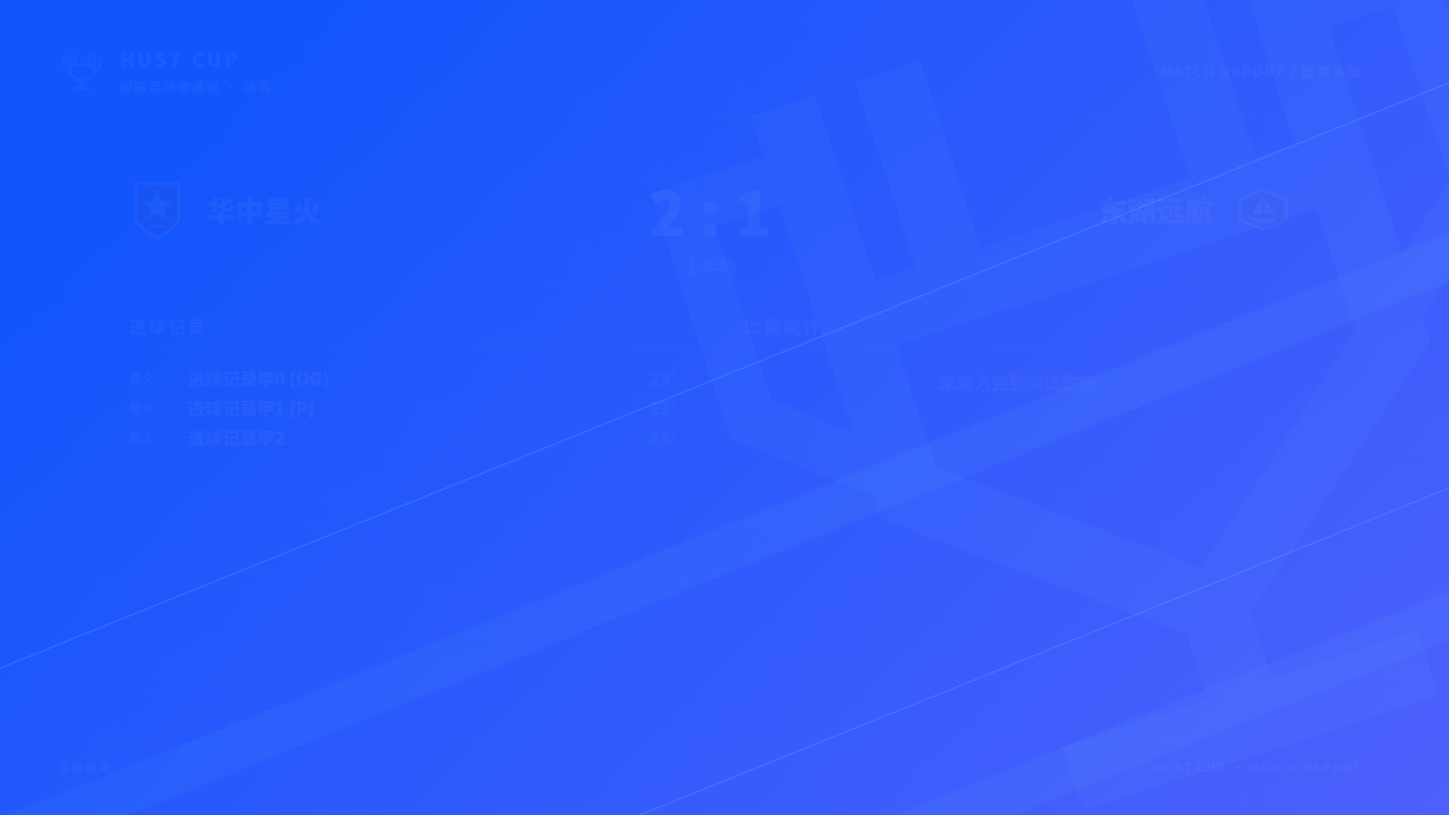
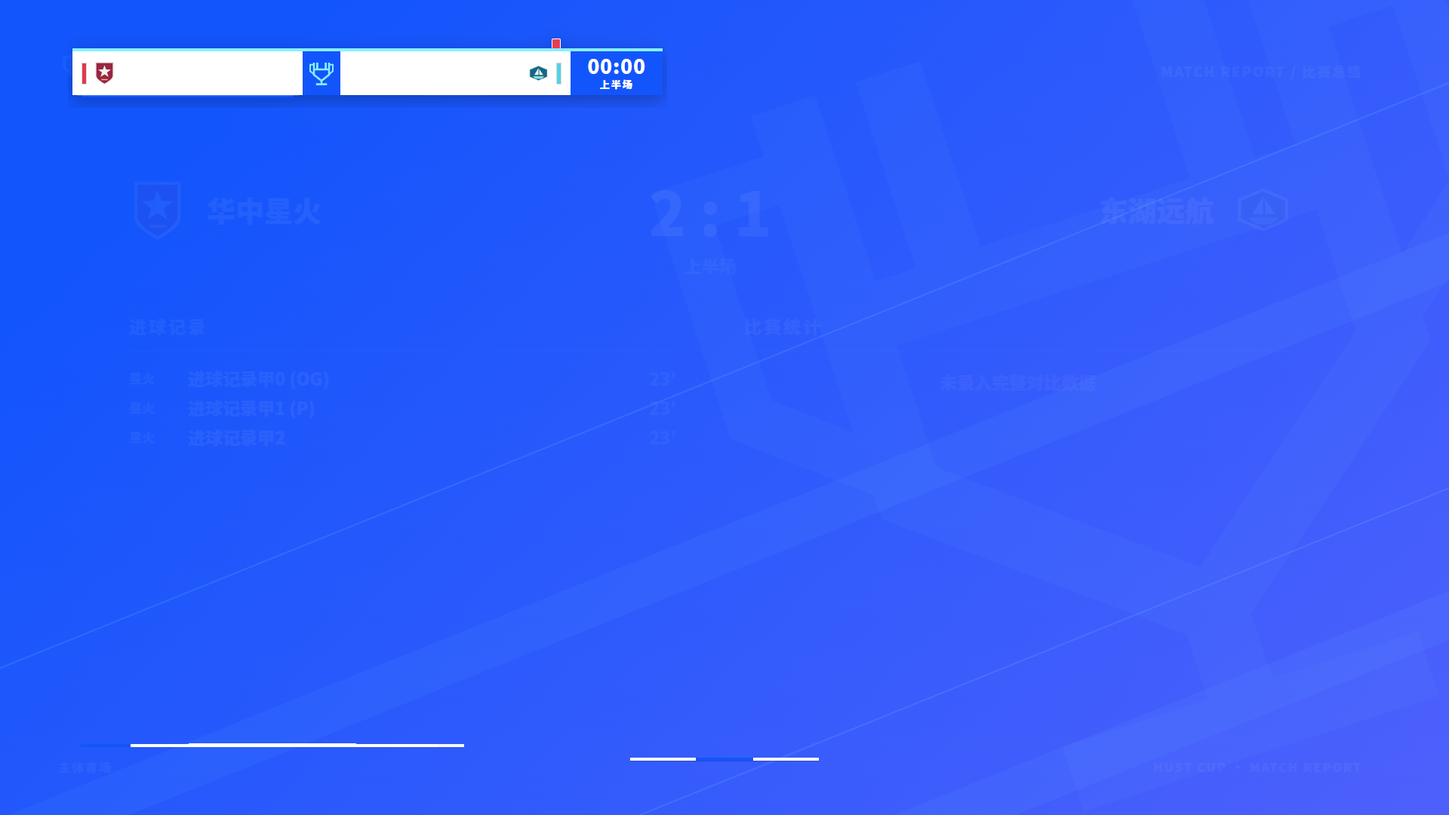
Add complete expansion withdrawal motion and confirmed log cleanup

Changed region(s): [[0.0312, 0.0306, 0.4688, 0.1528], [0.0938, 0.8861, 0.3125, 0.9167], [0.4375, 0.9167, 0.5625, 0.9472]]

diff --git a/public/desk.js b/public/desk.js
@@ -8,7 +8,7 @@ const esc=v=>String(v??'').replace(/[&<>"']/g,c=>({'&':'&amp;','<':'&lt;','>':'&
 const options=(values,selected)=>Object.entries(values).map(([k,v])=>`<option value="${k}" ${k===selected?'selected':''}>${esc(v)}</option>`).join('');
 const $=s=>document.querySelector(s);
 export async function mountDesk(h){
- let loadedFont='',approvedEvent=null;
+ let loadedFont='',approvedEvent=null,showLogHistory=false;
  let state=await h.api('/api/control-state'),tab='events',pairs=[],offset=state.serverNow-Date.now(),busy=false;
  const root=$('#match-desk');
  root.innerHTML=`<div class="desk-title"><div><small>MATCH OPERATIONS</small><h2>比赛控制台</h2></div><span id="match-revision"></span><button id="new-match">新建空白比赛</button></div>
@@ -23,9 +23,9 @@ export async function mountDesk(h){
  <div id="sub-fields" class="event-fields" hidden><label>换下（检索）<select id="sub-off"></select></label><label>换上（检索）<select id="sub-on"></select></label><button id="add-sub-pair">添加一组</button><div id="sub-pairs"></div></div>
  <div id="penalty-fields" class="event-fields" hidden><label>点球事项<select id="penalty-outcome"><option>判罚点球</option><option>点球罚失</option></select></label><label class="penalty-card-toggle"><input id="penalty-with-card" type="checkbox"> 同时给牌（只在左上比分牌播报）</label><div id="penalty-card-fields" hidden><div class="form-grid"><label>受罚球队<select id="companion-team"><option value="home">主队</option><option value="away">客队</option></select></label><label>受罚对象<select id="companion-role"><option value="player">场上球员</option><option value="bench">替补球员</option><option value="coach">主教练</option></select></label><label>给牌球员（检索）<select id="companion-player"></select></label><label>牌色<select id="companion-card"><option value="yellow">黄牌（第二张自动转红）</option><option value="red">直接红牌</option><option value="secondYellow">两黄变红</option></select></label></div></div></div><div id="var-fields" class="event-fields" hidden><label>画面状态<select id="var-stage"><option value="checking">审核中</option><option value="decision">VAR 决定</option></select></label><label>审核事项<select id="var-subject"><option>进球</option><option>疑似越位</option><option>疑似犯规</option><option>点球</option><option>直接红牌</option><option>第二张黄牌导致离场</option><option>身份识别</option><option>其他事件</option></select></label><label id="var-status-label">审核状态<select id="var-status"><option>检查中</option><option>查看回放</option></select></label><label id="var-decision-label" hidden>最终决定<select id="var-decision"><option>进球有效</option><option>进球无效</option><option>红牌</option><option>取消红牌</option><option>犯规</option><option>不犯规</option></select></label></div>
  <div id="text-fields" class="event-fields" hidden><label>播报文字<input id="event-text" maxlength="140" placeholder="点球判罚 / 点球罚失 / 比赛中断…"></label></div>
- <div id="adjust-fields" class="event-fields" hidden><label>比分校正值<input id="event-delta" type="number" min="-999" max="999" value="1"></label></div>
+ <div id="adjust-fields" class="event-fields" hidden><label>比分增减值（正数增加，负数减少）<input id="event-delta" type="number" min="-999" max="999" value="1"></label><p id="score-adjust-summary" class="adjustment-summary"></p></div>
  <div class="action-row"><button id="event-preview">确认并预览</button><button id="event-record" hidden>仅记账（高级）</button><button id="event-send" class="primary" disabled>应用并播出</button></div><p class="hint">动画重播不会记账。事件不会自动暂停计时；“进球无效”会同步比分与赛果。普通犯规可用通知播报。</p></div>
- <div class="desk-card"><h3>比赛日志 <small id="event-count"></small></h3><div id="event-log" class="event-log"></div></div></div></section>
+ <div class="desk-card"><h3>比赛日志 <small id="event-count"></small></h3><div class="action-row"><button id="clear-log">清理日志</button><button id="show-log-history" hidden>查看历史日志</button></div><div id="event-log" class="event-log"></div></div></div></section>
  <section data-desk-panel="queue" hidden><div class="desk-columns"><div class="desk-card"><h3>当前播出与待播队列</h3><div id="actual-cue" class="actual-cue"></div><div class="action-row"><button id="cue-next">提前结束 / 跳过</button><button id="queue-flush">清空待播</button><button id="queue-clear" class="danger">紧急清屏全部</button></div><div id="cue-list"></div><p class="hint">进球、给牌、VAR 优先于普通统计。全屏画面与临时事件顺序播出；紧急清屏立即取消延迟缓存与全部队列。</p><a href="overlay.html?mode=live&transparent=1" target="_blank">查看实际 OBS 输出 ↗</a></div><div class="desk-card"><h3>整场流程</h3><label>手动播出模块<select id="cue-scene">${options(MODULES)}</select></label><label>底部比分场景<select id="cue-context">${options(CONTEXTS)}</select></label><div class="action-row"><button id="bottom-preview">预览底部比分</button><button id="bottom-send" class="primary">播出 5.5 秒后恢复</button></div><label>大画面停留（秒）<input id="cue-hold" type="number" min="2" max="120" value="12"></label><div class="action-row"><button id="cue-enqueue" class="primary">加入播出队列</button><button id="cue-replace">替换当前画面</button></div><div class="flow-buttons"><button id="flow-opening">赛事开场 → 入场 → 双方首发 / 阵型 → 裁判 → 解说 → 开球</button><button id="flow-halftime">半场总结 → 统计 → 底部半场比分</button><button id="flow-fulltime">全场赛果 → 总结 → 点球结果（按需）</button></div><p class="hint">正式顺播只包含已启用模块。可随时跳过或提前结束；两队使用各自名单，最初首发独立保留。</p></div></div></section>
  <section data-desk-panel="pk" hidden><div class="desk-columns"><div class="desk-card"><h3>点球大战 <small>独立于比赛进球</small></h3><div id="shootout-status" class="pk-desk-score"></div><div class="form-grid"><label>先罚队<select id="shootout-first"><option value="home">主队</option><option value="away">客队</option></select></label><button id="shootout-first-save">设置先罚</button><label>罚球队员<input id="kicker-name" maxlength="40"></label><label>号码<input id="kicker-number" type="number" min="0" max="999" value="0"></label></div><div class="action-row"><button id="kick-made" class="primary">● 罚进</button><button id="kick-missed">× 罚失</button><button id="kick-undo">撤销上一脚</button><button id="kick-confirm">确认结束</button></div><div class="action-row"><button id="show-pk">播出底部简版</button><button id="show-pk-result">播出结果大面板</button><button id="kick-reset" class="danger">清空点球记录</button></div><p class="hint">点击轮次结果：● → × → — 待重罚 → ●。待重罚会取消胜负判断；先处理待罚位置再继续。</p></div><div class="desk-card"><h3>逐轮记录与纠错</h3><div id="shootout-log"></div></div></div></section>
  <section data-desk-panel="stats" hidden><div class="desk-columns"><div class="desk-card"><h3>手动比赛统计 <small>留空为未知</small></h3><div class="stat-input-head"><span>项目</span><span>主队</span><span>客队</span></div>${Object.entries(STAT_LABELS).map(([k,v])=>`<div class="stat-input-row"><span>${v}</span><input data-stat="${k},home" type="number" min="0" max="${k==='possession'?100:999}"><input data-stat="${k},away" type="number" min="0" max="${k==='possession'?100:999}"></div>`).join('')}<div class="action-row"><button id="stats-save">保存统计</button><button id="stats-send" class="primary">保存并播出面板</button></div><label>单项信息<select data-path="presentation.statKey">${options(STAT_LABELS)}</select></label></div><div class="desk-card"><h3>两回合与最终结果</h3><label class="check"><input id="tie-enabled" type="checkbox"> 启用两回合总比分</label><div class="form-grid"><label>首回合主队（本场主队身份）<input id="tie-home" type="number" min="0" value="0"></label><label>首回合客队<input id="tie-away" type="number" min="0" value="0"></label><label class="check"><input id="tie-away-rule" type="checkbox"> 启用客场进球规则（默认关闭）</label><label>首回合客队身份<select id="first-leg-away"><option value="home">本场主队</option><option value="away">本场客队</option></select></label></div><button id="tie-save">保存赛制</button><p id="aggregate-status" class="hint"></p><div class="form-grid"><label>结果对象<select id="result-winner"><option value="">未确认</option><option value="home">主队</option><option value="away">客队</option><option value="draw">平局</option></select></label><label>结果称谓<select id="result-label"><option>胜者</option><option>晋级</option><option>冠军</option></select></label><label>最佳球员（可选）<input id="result-mvp" maxlength="50"></label><label class="check"><input id="result-confirmed" type="checkbox"> 我确认此结果可正式播出</label></div><div class="action-row"><button id="result-save">保存确认</button><button id="fulltime-send" class="primary">播出全场赛果</button></div><p class="hint">任何领先、总比分或点球判断都不会自动宣布晋级或冠军。更改进球、点球和赛制后须重新确认结果。</p></div></div></section>
@@ -42,19 +42,20 @@ export async function mountDesk(h){
  function invalidateEvent(){approvedEvent=null;$('#event-send').disabled=true;const note=$('#event-preview-status');if(note)note.textContent='填写后点击“确认并预览”；不会记账或进入直播。';}
  function openEvent(type){$('#event-type').value=type;pairs=[];renderPairs();eventFields();playerOptions();companionOptions();invalidateEvent();$('#event-dialog')?.showModal();}
  root.addEventListener('click',e=>{const b=e.target.closest('[data-open-event]');if(b)openEvent(b.dataset.openEvent);if(e.target.closest('[data-close-event]'))$('#event-dialog').close();});
- root.addEventListener('input',e=>{if(e.target.closest('#event-dialog')&&!e.target.closest('.event-modal-preview'))invalidateEvent();});
- root.addEventListener('change',e=>{if(e.target.closest('#event-dialog')&&!e.target.closest('.event-modal-preview'))invalidateEvent();});
+ root.addEventListener('input',e=>{if(e.target.closest('#event-dialog')&&!e.target.closest('.event-modal-preview'))invalidateEvent();adjustmentSummary();});
+ root.addEventListener('change',e=>{if(e.target.closest('#event-dialog')&&!e.target.closest('.event-modal-preview'))invalidateEvent();adjustmentSummary();});
  $('#var-stage').onchange=()=>{const decided=$('#var-stage').value==='decision';$('#var-status-label').hidden=decided;$('#var-decision-label').hidden=!decided;};
  $('#penalty-with-card').onchange=()=>{$('#penalty-card-fields').hidden=!$('#penalty-with-card').checked;companionOptions();};$('#companion-team').onchange=companionOptions;$('#companion-role').onchange=companionOptions;
- function eventFields(){const type=$('#event-type').value;const hints={goal:'选择进球队和球员；乌龙球选球员所属队。时间留空取比赛分钟。',cancelGoal:'选择要取消的进球和原因；应用后同步回滚比分与进球名单。',card:'选择受罚球队、对象、球员与牌色；姓名和号码由赛前名单绑定。',substitution:'选择换下和换上球员并添加一组；可一次添加多组。',penalty:'选择点球球队和事项；如同时给牌，另选受罚方和球员。',var:'填写审核事项、状态和结果。',notice:'填写需要播报的简短文字。',adjustment:'选择球队和增减值；不生成进球者。'};const help=$('#event-required');if(help)help.textContent=hints[type]||'';const title=$('#event-dialog-title');if(title)title.textContent=EVENT_LABELS[type];for(const [id,types] of Object.entries({'goal-fields':['goal'],'card-fields':['card'],'cancel-fields':['cancelGoal'],'sub-fields':['substitution'],'penalty-fields':['penalty'],'var-fields':['var'],'text-fields':['penalty','var','notice','adjustment'],'adjust-fields':['adjustment']}))$('#'+id).hidden=!types.includes(type);}
- function eventValue(){const type=$('#event-type').value;if(['goal','card'].includes(type)&&!(type==='card'&&$('#card-role').value==='coach'))playerSearch['event-player'].assertSelected();return {type,team:$('#event-team').value,name:$('#event-name').value,number:Number($('#event-number').value),time:$('#event-time').value,period:$('#event-period').value,kind:$('#event-kind').value,goalId:$('#cancel-goal-id').value,role:$('#card-role').value,card:$('#card-value').value,playerId:$('#event-player').value,pairs:pairs.map(({offId,onId})=>({offId,onId})),subject:$('#var-subject').value,status:$('#var-status').value,varStage:$('#var-stage').value,decision:$('#var-decision').value,text:type==='cancelGoal'?($('#cancel-reason').value==='custom'?$('#cancel-custom').value:$('#cancel-reason').value):($('#event-text').value||(type==='penalty'?$('#penalty-outcome').value:'')),delta:Number($('#event-delta').value)};}
+ function adjustmentSummary(){if(!$('#score-adjust-summary'))return;const score={...state.derived.score},team=$('#event-team').value,delta=Number($('#event-delta').value);score[team]+=Number.isInteger(delta)?delta:0;$('#score-adjust-summary').textContent=`当前 ${state.derived.score.home} : ${state.derived.score.away} → 修改后 ${score.home} : ${score.away}${score[team]<0?'（比分不能为负数）':'；应用后写入实际比分'}`;}
+ function eventFields(){const type=$('#event-type').value;const hints={goal:'选择进球队和球员；乌龙球选球员所属队。时间留空取比赛分钟。',cancelGoal:'选择要取消的进球和原因；应用后同步回滚比分与进球名单。',card:'选择受罚球队、对象、球员与牌色；姓名和号码由赛前名单绑定。',substitution:'选择换下和换上球员并添加一组；可一次添加多组。',penalty:'选择点球球队和事项；如同时给牌，另选受罚方和球员。',var:'填写审核事项、状态和结果。',notice:'填写需要播报的简短文字。',adjustment:'此操作直接修改实际比赛比分和总比分，并写入日志；不会新增进球者。确认预览后，点击应用才生效。'};const help=$('#event-required');if(help)help.textContent=hints[type]||'';const title=$('#event-dialog-title');if(title)title.textContent=type==='adjustment'?'手动修改实际比分':EVENT_LABELS[type];$('#event-send').textContent=type==='adjustment'?'应用比分修改':'应用并播出';adjustmentSummary();for(const [id,types] of Object.entries({'goal-fields':['goal'],'card-fields':['card'],'cancel-fields':['cancelGoal'],'sub-fields':['substitution'],'penalty-fields':['penalty'],'var-fields':['var'],'text-fields':['penalty','var','notice','adjustment'],'adjust-fields':['adjustment']}))$('#'+id).hidden=!types.includes(type);}
+ function eventValue(){const type=$('#event-type').value;if(['goal','card'].includes(type)&&!(type==='card'&&$('#card-role').value==='coach'))playerSearch['event-player'].assertSelected();return {type,team:$('#event-team').value,name:$('#event-name').value,number:Number($('#event-number').value),time:$('#event-time').value,period:$('#event-period').value,kind:$('#event-kind').value,goalId:$('#cancel-goal-id').value,role:$('#card-role').value,card:$('#card-value').value,playerId:$('#event-player').value,pairs:pairs.map(({offId,onId})=>({offId,onId})),subject:$('#var-subject').value,status:$('#var-status').value,varStage:$('#var-stage').value,decision:$('#var-decision').value,text:type==='adjustment'?($('#event-text').value||`手动改比分：${h.getDraft()[$('#event-team').value].short} ${Number($('#event-delta').value)>=0?'+':''}${$('#event-delta').value}`):type==='cancelGoal'?($('#cancel-reason').value==='custom'?$('#cancel-custom').value:$('#cancel-reason').value):($('#event-text').value||(type==='penalty'?$('#penalty-outcome').value:'')),delta:Number($('#event-delta').value)};}
  function renderPairs(){$('#sub-pairs').innerHTML=pairs.map((p,i)=>`<div>↓ ${esc(p.off)}　↑ ${esc(p.on)} <button data-remove-pair="${i}">移除</button></div>`).join('');}
  function eventDetails(e){if(e.type==='substitution')return e.pairs.map(p=>`↓${p.off.number} ${p.off.name} ↑${p.on.number} ${p.on.name}`).join('；');const suffix=e.type==='goal'&&e.kind==='own'?'（乌龙球 → '+h.getDraft()[goalTeams(e).scoreTeam].short+' +1）':e.type==='goal'&&e.kind==='penalty'?'（点球）':'';return (e.text||e.name)+suffix;}
  function paint(){
   for(const side of ['home','away']){$('#live-name-'+side).textContent=h.getDraft()[side].short;$('#live-score-'+side).textContent=state.derived.score[side];}
   $('#match-revision').textContent=`比赛修订 ${state.match.revision} · ${state.derived.score.home} : ${state.derived.score.away}`;
-  $('#event-count').textContent=state.match.events.length+' 条';
-  $('#event-log').innerHTML=state.match.events.slice().reverse().map(e=>`<article class="log-entry ${e.active===false?'undone':''}"><div><b>${esc(EVENT_LABELS[e.type])}</b><time>${esc(e.time)}</time><em class="event-output-status">${eventOutputStatus(state,e)}</em><span>${esc(h.getDraft()[e.type==='goal'?goalTeams(e).team:e.team].short)}</span></div><p>${esc(eventDetails(e))}</p><div class="log-actions"><button data-log="replay" data-id="${esc(e.id)}" ${e.active===false?'disabled':''}>重播动画</button><button data-log="edit" data-id="${esc(e.id)}">修正姓名 / 时间</button><button data-log="toggle" data-id="${esc(e.id)}">${e.active===false?'恢复记录':'撤销记账'}</button></div></article>`).join('')||'<p class="hint">本场暂无事件。记账后可随时重播动画。</p>';
+  const hiddenCount=Math.min(state.match.events.length,state.match.logStartIndex||0),shown=showLogHistory?state.match.events:state.match.events.slice(hiddenCount);$('#event-count').textContent=`当前 ${shown.length} 条 / 共 ${state.match.events.length} 条`;$('#show-log-history').hidden=!hiddenCount;$('#show-log-history').textContent=showLogHistory?'收起历史日志':`查看历史日志（${hiddenCount}）`;$('#clear-log').disabled=!state.match.events.length;adjustmentSummary();
+  $('#event-log').innerHTML=shown.slice().reverse().map(e=>`<article class="log-entry ${e.active===false?'undone':''}"><div><b>${esc(EVENT_LABELS[e.type])}</b><time>${esc(e.time)}</time><em class="event-output-status">${eventOutputStatus(state,e)}</em><span>${esc(h.getDraft()[e.type==='goal'?goalTeams(e).team:e.team].short)}</span></div><p>${esc(eventDetails(e))}</p><div class="log-actions"><button data-log="replay" data-id="${esc(e.id)}" ${e.active===false?'disabled':''}>重播动画</button><button data-log="edit" data-id="${esc(e.id)}">修正姓名 / 时间</button><button data-log="toggle" data-id="${esc(e.id)}">${e.active===false?'恢复记录':'撤销记账'}</button></div></article>`).join('')||`<p class="hint">${hiddenCount?'当前列表已清理，历史记录及比赛数据保留。':'本场暂无事件。记账后可随时重播动画。'}</p>`;
   const selected=$('#cancel-goal-id').value;$('#cancel-goal-id').innerHTML=state.derived.goals.filter(g=>!g.cancelled).map(g=>`<option value="${esc(g.id)}">${esc(h.getDraft()[g.team].short)} ${esc(g.name)} ${esc(g.time)}</option>`).join('');if([...$('#cancel-goal-id').options].some(o=>o.value===selected))$('#cancel-goal-id').value=selected;
   const live=state.output.live;$('#actual-cue').textContent=`实际输出：${live.scene==='scoreboard'&&!scoreboardVisible(live.data)?'非比赛阶段 · 左上比分牌已隐藏':MODULES[live.scene]||'已清屏'}${state.outputDelayMs?' · 延迟 '+state.outputDelayMs/1000+'秒':''}　源端：${MODULES[state.live.scene]||'已清屏'} · 待播 ${state.queue.length} 条`;
   $('#cue-list').innerHTML=state.queue.map(q=>`<div class="queue-item"><b>${q.priority}</b><span>${MODULES[q.scene]}</span><small>${q.holdMs/1000}s</small><button data-drop-cue="${q.id}">移除</button></div>`).join('')||'<p class="hint">待播队列为空</p>';
@@ -82,8 +83,10 @@ export async function mountDesk(h){
  $('#event-team').onchange=()=>{pairs=[];renderPairs();playerOptions();};$('#event-type').onchange=()=>{eventFields();playerOptions();};$('#card-role').onchange=playerOptions;$('#event-player').onchange=fillPlayer;
  bind('add-sub-pair',()=>{playerSearch['sub-off'].assertSelected();playerSearch['sub-on'].assertSelected();const off=$('#sub-off'),on=$('#sub-on');if(!off.value||!on.value)throw Error('请先选择换上换下球员');if(pairs.some(p=>p.offId===off.value||p.onId===on.value))throw Error('同一批次球员不能重复');pairs.push({offId:off.value,onId:on.value,off:off.selectedOptions[0].textContent,on:on.selectedOptions[0].textContent});renderPairs();});
  bind('event-preview',async()=>{await h.save();const command={action:'record',id:crypto.randomUUID(),event:eventValue(),companionCard:companionValue()};const v=await h.api('/api/preview-event','POST',command);const f=$('#event-preview-frame');const loaded=new Promise(resolve=>f.addEventListener('load',resolve,{once:true}));f.src='overlay.html?scene='+v.scene+'&hold=1';await loaded;await new Promise((resolve,reject)=>{let attempts=0;const check=()=>{if(f.contentDocument?.documentElement.dataset.ready==='1')resolve();else if(++attempts>300)reject(Error('预览加载超时，请重试'));else setTimeout(check,20);};check();});f.contentWindow.postMessage({type:'cue',...v},location.origin);approvedEvent={...structuredClone(command),baseRevision:v.baseRevision};$('#event-send').disabled=false;$('#event-preview-status').textContent='待播预览已确认；点击“应用并播出”才记账并进入直播。修改内容需重新确认。';});
- bind('event-send',async()=>{if(!approvedEvent)throw Error('请先确认并预览事件');const command=structuredClone(approvedEvent);await call({...command,broadcast:true});approvedEvent=null;if(command.event.type==='goal')$('#event-kind').value='normal';pairs=[];renderPairs();playerOptions();$('#event-dialog').close();h.showLive();h.toast('已应用事件并加入播出；重复动画不会重复记账');});
+ bind('event-send',async()=>{if(!approvedEvent)throw Error('请先确认并预览事件');const command=structuredClone(approvedEvent);await call({...command,broadcast:command.event.type!=='adjustment'});approvedEvent=null;if(command.event.type==='goal')$('#event-kind').value='normal';pairs=[];renderPairs();playerOptions();$('#event-dialog').close();h.showLive();h.toast(command.event.type==='adjustment'?'实际比分已修改并写入日志；未新增进球者':'已应用事件并加入播出；重复动画不会重复记账');});
  bind('event-record',async()=>{throw Error('请使用“确认并预览 → 应用并播出”流程');});
+ bind('clear-log',async()=>{if(!confirm('确认清理当前比赛日志列表？已有记录将收起，比分、进球、红黄牌、换人和点球数据保留，可通过“查看历史日志”找回。'))return;await call({action:'clearLog',confirm:'CLEAR_LOG',publish:false});showLogHistory=false;paint();h.toast('日志列表已清理，比赛数据保留');});
+ bind('show-log-history',()=>{showLogHistory=!showLogHistory;paint();});
  bind('clock-apply',async()=>{await call({action:'clock',operation:'apply',phase:$('#phase').value});h.toast('已应用 '+PHASES[state.match.clock.phase]+(state.match.clock.running?' · 计时运行中':' · 计时暂停'));});
  bind('clock-pause',()=>call({action:'clock',operation:'pause'}));
  bind('clock-reset',async()=>{if(!confirm('确认将比赛计时清零到 00:00 并暂停？比分、事件记录和当前比赛阶段保持不变。'))return;await call({action:'clock',operation:'reset',confirm:'RESET_CLOCK'});h.toast('计时已清零并暂停；比分、事件和阶段保留');});

diff --git a/public/graphics.js b/public/graphics.js
@@ -1,3 +1,4 @@
+import {createMotion,EXIT_MS} from './motion.js';
 import {scoreboardVisible,scoreboardClock,dismissalMarkers,scoreboardEvent} from './scoreboard.js';
 import {STAT_LABELS,PHASES,goalMarker} from './match.js';
 import {MAX_BENCH,REFEREE_ROLES,SCENES,CONTEXTS,GROUPS,lineupFor,formationAt,goalRows,bottomScores,outputScene,shootoutStatus} from './model.js';
@@ -5,6 +6,7 @@ const q=new URLSearchParams(location.search),isLive=q.get('mode')==='live';
 let data=isLive?null:(await fetch('api/preview').then(r=>r.json())).data;
 let currentScene='scoreboard',currentElapsed=0;let live=null,offset=0,startedAt=Date.now(),timer,previewScene=SCENES.includes(q.get('scene'))?q.get('scene'):'scoreboard';
 const stage=document.querySelector('#stage'),layer=document.querySelector('#graphics');
+const motion=createMotion(layer);
 const esc=v=>String(v??'').replace(/[&<>"']/g,c=>({'&':'&amp;','<':'&lt;','>':'&gt;','"':'&quot;',"'":'&#39;'}[c]));
 const trophy=()=>'<svg class="trophy" viewBox="0 0 120 120" aria-label="HUST CUP"><g fill="none" stroke="currentColor" stroke-width="8"><path d="M30 18v48l30 24 30-24V18M30 45h60M43 18v23m34-23v23M60 90v14m-22 0h44"/><path d="M30 26H15v26l17 14m58-40h15v26L88 66" stroke-width="6"/></g></svg>';
 const logo=()=>!data.competition.logo||data.competition.logo==='assets/competition.svg'?trophy():`<span class="custom-logo"><span class="logo-fallback">${trophy()}</span><img src="${esc(data.competition.logo)}" alt="赛事 logo"></span>`;
@@ -113,12 +115,11 @@ function render(){
  if(extraScenes[scene])html=extraScenes[scene](session,elapsed);
  const outputPart=q.get('part');if(outputPart==='persistent')html=['scoreboard','goal','substitution','card','cancelGoal','notice','var','penalty','statStrip','person','officials','commentators','sponsor'].includes(scene)?scoreboard():'';if(outputPart==='temporary'){const temp=document.createElement('div');temp.innerHTML=html;temp.querySelectorAll('.slim-score').forEach(e=>e.remove());html=temp.innerHTML;}
  if(data.config.replay&&scene!=='clear'&&outputPart!=='persistent')html+='<div class="replay-corner">回放 / REPLAY</div>';
- layer.innerHTML=html;safeImgError();setupDragging();applyFont();
+ const frozen=!isLive&&q.get('hold')==='1',transient=['goal','substitution','card','cancelGoal','penalty','notice','var','person','statStrip','officials','commentators','entrance','kickoff','sponsor'].includes(scene),remaining=frozen?null:isLive&&session.expiresAt?session.expiresAt-now:scene==='bottomScore'?data.config.bottomHoldMs-elapsed:transient?data.config.eventHoldMs-elapsed:null;
+ motion.paint(html,{run:session.runId||`${previewScene}:${startedAt}`,elapsed,remaining,immediate:scene==='clear'||frozen});safeImgError();setupDragging();applyFont();
  const isRefresh=lastRun===session.runId;if(isRefresh)layer.querySelectorAll('.full,.full-bg,.shootout').forEach(e=>e.style.animation='none');lastRun=session.runId;
- const age=Math.max(0,elapsed);layer.querySelectorAll('.cue-graphic,.bottom-score,.compact-pk,.mini-event').forEach(e=>e.style.animationDelay=`-${age}ms`);layer.querySelectorAll('.team-event-extension').forEach(e=>e.style.animationDelay=`-${age}ms`);
- if(isLive&&session.expiresAt){const remaining=session.expiresAt-now;if(remaining<=300&&remaining>0)layer.classList.add('exiting');next=Math.min(next,remaining>300?remaining-300:remaining);}
+ if(remaining!==null&&remaining>0)next=Math.min(next,remaining>EXIT_MS?remaining-EXIT_MS:remaining);
  if(data.matchClock)updateClock();
- const eventGraphic=layer.querySelector('.mini-event');if(eventGraphic)eventGraphic.style.animationDelay=`-${elapsed}ms`;
  layer.querySelectorAll('.slim-score .score-value').forEach(e=>{if(previousScores[e.dataset.side]!==undefined&&previousScores[e.dataset.side]!==e.textContent)e.classList.add('changed');});
  layer.querySelectorAll('video').forEach(video=>{video.muted=true;video.volume=0;video.addEventListener('error',()=>video.remove(),{once:true});const seek=()=>{const age=elapsed-Number(video.dataset.origin||0);if(Number.isFinite(video.duration)&&video.duration>0)video.currentTime=(Math.max(0,age)/1000)%video.duration;const play=()=>{if(video.isConnected)video.play().catch(()=>video.remove());};if(age<0)setTimeout(play,-age);else play();};if(video.readyState>=1)seek();else video.addEventListener('loadedmetadata',seek,{once:true});});
  if(data.config.sound&&scene!=='clear'&&soundRun!==session.runId){soundRun=session.runId;const sound=new Audio('assets/cue.wav');sound.volume=data.config.volume;sound.play().catch(()=>{});}
@@ -167,6 +168,6 @@ addEventListener('message',async event=>{
  if(event.data?.type==='draft'){const matchClock=data.matchClock;data={...data,...event.data.data,matchClock};render();}if(event.data?.type==='clock'){data.matchClock=event.data.clock;render();}
  if(event.data?.type==='cue'){data=event.data.data;previewScene=event.data.scene;startedAt=Date.now();render();}
  if(event.data?.type==='replay'){startedAt=Date.now();render();}
- if(event.data?.type==='exit')layer.classList.add('exiting');
+ if(event.data?.type==='exit')motion.withdraw();
 });
 document.addEventListener('visibilitychange',()=>{if(!document.hidden&&data)render();});

diff --git a/public/motion.js b/public/motion.js
@@ -1,0 +1,63 @@
+// Presentation only. Never delays a match update or writes the event ledger.
+export const EXIT_MS=360;
+const selector='.slim-score,.bottom-score,.compact-pk,.entrance-bar,.mini-event,.info-strip,.referee-panel,.team-event-extension,.added-time-block,.score-context,.dismissal-flags';
+const top='.team-event-extension';
+function identity(node,run){
+ if(node.matches('.slim-score'))return 'scoreboard';
+ if(node.matches('.team-event-extension'))return `event:${run}:${node.dataset.eventTeam}`;
+ if(node.matches('.added-time-block,.score-context,.dismissal-flags'))return `chip:${node.className}:${node.textContent}:${node.childElementCount}`;
+ return `panel:${run}:${[...node.classList].find(c=>c!=='cue-graphic')}`;
+}
+function items(root,run){return new Map([...root.querySelectorAll(selector)].map(node=>[identity(node,run),node]));}
+function exitFrames(node){
+ const down=node.matches(top),edge=down?'top':'bottom';
+ const thin=edge==='top'?'inset(0 0 calc(100% - 3px) 0)':'inset(calc(100% - 3px) 0 0 0)';
+ const closed=edge==='top'?'inset(0 50% calc(100% - 3px) 50%)':'inset(calc(100% - 3px) 50% 0 50%)';
+ return [{clipPath:getComputedStyle(node).clipPath==='none'?'inset(-64px -8px -24px -8px)':getComputedStyle(node).clipPath,opacity:1},{clipPath:thin,opacity:1,offset:.6},{clipPath:closed,opacity:0}];
+}
+export function createMotion(layer){
+ const departures=document.createElement('div');departures.id='motion-departures';departures.setAttribute('aria-hidden','true');layer.after(departures);
+ let active=new Map();
+ const reduced=()=>matchMedia('(prefers-reduced-motion: reduce)').matches;
+ function leave(node){
+  if(!node.isConnected||reduced())return;
+  const rect=node.getBoundingClientRect(),stage=layer.getBoundingClientRect();if(!rect.width||!rect.height)return;
+  const clone=node.cloneNode(true),style=getComputedStyle(node),frames=exitFrames(node),box=document.createElement('div');
+  // Freeze the computed root style so detached grid/flex items retain their exact size.
+  for(const key of style)clone.style.setProperty(key,style.getPropertyValue(key));
+  clone.querySelectorAll('[id]').forEach(e=>e.removeAttribute('id'));clone.removeAttribute('id');
+  const scale=rect.width/(node.offsetWidth||rect.width);
+  Object.assign(box.style,{position:'absolute',left:`${rect.left-stage.left}px`,top:`${rect.top-stage.top}px`,width:`${node.offsetWidth}px`,height:`${node.offsetHeight}px`,transform:`scale(${scale})`,transformOrigin:'top left',pointerEvents:'none'});
+  Object.assign(clone.style,{position:'relative',inset:'auto',left:'0',top:'0',width:`${node.offsetWidth}px`,height:`${node.offsetHeight}px`,margin:'0',transform:'none',animation:'none'});
+  clone.querySelectorAll('video,audio').forEach(e=>{e.autoplay=false;e.muted=true;});
+  box.dataset.motionExit='1';box.append(clone);departures.append(box);
+  const animation=clone.animate(frames,{duration:EXIT_MS,easing:'cubic-bezier(.4,0,.7,1)',fill:'both'});
+  animation.finished.catch(()=>{}).finally(()=>box.remove());
+ }
+ function paint(html,{run,elapsed=0,remaining=null,immediate=false}={}){
+  const now=performance.now(),template=document.createElement('template');template.innerHTML=html;
+  const next=items(template.content,run),removed=[...active].filter(([key])=>!next.has(key));
+  if(immediate){departures.replaceChildren();active.clear();}
+  else for(const [,record] of removed){
+   if(record.deadline!==null&&now>=record.deadline)continue;
+   if(removed.some(([,parent])=>parent!==record&&parent.node.contains(record.node)))continue;
+   leave(record.node);
+  }
+  layer.innerHTML=html;
+  const current=items(layer,run),updated=new Map();
+  for(const [key,node] of current){
+   const previous=active.get(key),sameRun=previous?.run===run;
+   const entered=previous?.entered??(active.size&&[...active.values()].some(v=>v.run===run)?now:now-elapsed);
+   // Persistent base survives event changes; its extensions animate independently.
+   if(node.matches('.slim-score')&&previous)node.style.animation='none';
+   else node.style.animationDelay=`-${Math.max(0,now-entered)}ms`;
+   if(remaining!==null&&remaining>0&&remaining<=EXIT_MS&&!node.matches('.slim-score,.added-time-block,.score-context,.dismissal-flags')&&!reduced()){
+    const a=node.animate(exitFrames(node),{duration:EXIT_MS,easing:'cubic-bezier(.4,0,.7,1)',fill:'both'});a.currentTime=EXIT_MS-remaining;
+   }
+   updated.set(key,{node,entered:previous&&sameRun?previous.entered:entered,run,deadline:remaining===null?null:now+remaining});
+  }
+  active=updated;
+ }
+ function withdraw(){for(const {node} of active.values())if(!node.parentElement.closest(selector))leave(node);layer.replaceChildren();active.clear();}
+ return {paint,withdraw};
+}

diff --git a/public/index.html b/public/index.html
@@ -1,5 +1,5 @@
 <!doctype html><html lang="zh-CN"><head><meta charset="UTF-8"><meta name="viewport" content="width=device-width,initial-scale=1"><title>HUST_CUP_BROADCAST · 模块与播出控制</title><link rel="stylesheet" href="preview.css"><link rel="stylesheet" href="control.css"><link rel="stylesheet" href="sticky-controls.css"><link rel="stylesheet" href="identity.css"><link rel="stylesheet" href="desk.css"><link rel="stylesheet" href="workflow.css"></head><body>
-<header><a class="wordmark" href="/">H<span>／</span>C <small>BROADCAST SYSTEM</small></a><div class="project">HUST_CUP_BROADCAST <span>v1.4.1 · MATCHDAY CONTROL</span></div><div class="status" id="connection">正在连接本地服务…</div></header>
+<header><a class="wordmark" href="/">H<span>／</span>C <small>BROADCAST SYSTEM</small></a><div class="project">HUST_CUP_BROADCAST <span>v1.4.2 · MATCHDAY CONTROL</span></div><div class="status" id="connection">正在连接本地服务…</div></header>
 <div class="workspace"><aside><div class="eyebrow">TWO THEMES / 两套主题</div><div class="theme-switch"><button data-theme="pulse"><span class="swatch pulse"></span><strong>PULSE 几何竞技</strong><small>紧凑 · 高对比 · 色块</small></button><button data-theme="nocturne"><span class="swatch nocturne"></span><strong>NOCTURNE 蓝夜杯赛</strong><small>深蓝 · 光弧 · 仪式感</small></button></div><div class="eyebrow scenes-label">独立选择预览模块</div><nav id="scenes"></nav><div class="sidebar-note">选择画面和编辑资料只影响草稿预览。<br>点击「正式播出」或「更新直播资料」才会更新 OBS。</div><a class="obs-link" href="overlay.html?mode=live&transparent=1" target="_blank" rel="noopener">打开 OBS 合成输出 ↗</a><p class="sidebar-note">实时计时、比赛账本、图文队列与延迟统一由本地服务管理。</p></aside>
 <section class="main"><div class="toolbar"><div><span id="scene-number">01</span><strong id="scene-title">常驻比分牌</strong><small id="theme-label">PULSE</small></div><button id="view-live" title="查看与OBS一致的实际输出，不修改草稿">查看实际播出</button><button id="replay">↻ 仅重播预览</button></div>
 <div class="viewport" id="viewport"><iframe id="output" title="草稿预览，独立于正式播出" src="overlay.html?scene=scoreboard"></iframe></div>

diff --git a/public/match.js b/public/match.js
@@ -1,7 +1,7 @@
 // Shared, deterministic match ledger. Rendering never writes this ledger.
 export const PHASES={pregame:'赛前',first:'上半场',halftime:'中场',second:'下半场',regulationEnd:'常规时间结束',extraFirst:'加时赛上半场',extraBreak:'加时赛中场',extraSecond:'加时赛下半场',shootout:'点球大战',finished:'全场结束',interrupted:'比赛暂时中断'};
 export const STAT_LABELS={possession:'控球率',shots:'射门',onTarget:'射正',corners:'角球',fouls:'犯规',offsides:'越位',yellow:'黄牌',red:'红牌'};
-export const EVENT_LABELS={goal:'进球',cancelGoal:'进球无效',card:'给牌',substitution:'换人',penalty:'点球判罚 / 罚失',var:'判罚审核',notice:'通用通知',adjustment:'比分校正'};
+export const EVENT_LABELS={goal:'进球',cancelGoal:'进球无效',card:'给牌',substitution:'换人',penalty:'点球判罚 / 罚失',var:'判罚审核',notice:'通用通知',adjustment:'手动改比分'};
 const clone=v=>structuredClone(v),side=v=>v==='away'?'away':'home';
 const integer=(v,min=0,max=999)=>{const n=Number(v);if(!Number.isInteger(n)||n<min||n>max)throw Error(`请输入 ${min}–${max} 的整数`);return n;};
 const txt=(v,max=100)=>String(v??'').trim().slice(0,max);
@@ -85,6 +85,8 @@ export function changeMatch(original,command,now=Date.now()){
   deriveMatch(m);
  }else if(c.action==='lineups'){
   if(!c.lineups?.home?.players||!c.lineups?.away?.players)throw Error('阵容无效');m.initial.lineups=clone(c.lineups);deriveMatch(m);
+ }else if(c.action==='clearLog'){
+  if(c.confirm!=='CLEAR_LOG')throw Error('清理日志需要确认');m.logStartIndex=m.events.length;
  }else if(c.action==='stats'){
   m.stats={};for(const key of Object.keys(STAT_LABELS)){const v=c.stats?.[key]||{};const clean=v=>v===''||v===null||v===undefined?null:integer(v,0,key==='possession'?100:999);m.stats[key]={home:clean(v.home),away:clean(v.away)};}if(m.clock.phase==='halftime')m.halftimeStats=clone(m.stats);
  }else if(c.action==='tie'){m.tie={enabled:!!c.enabled,firstLeg:{home:integer(c.home||0),away:integer(c.away||0)},awayGoals:!!c.awayGoals,firstLegAway:side(c.firstLegAway)};m.result.confirmed=false;

diff --git a/public/identity.css b/public/identity.css
@@ -119,3 +119,12 @@ body{font-family:var(--font-ui);font-weight:900}button,input,select,textarea{fon
 .var-logo{display:inline-flex;align-items:center;justify-content:center;flex:0 0 76px;width:76px;height:48px;border:3px solid #1355fc;border-radius:3px;font-size:26px;letter-spacing:1px;font-family:var(--font-num);color:#1355fc}.nocturne .var-logo{color:#86effc;border-color:#86effc}.var-logo.checking{animation:varPulse 1400ms ease-in-out infinite}.var-copy{min-width:0;flex:1}.var-copy>strong{display:block;font-size:28px;line-height:1.4;overflow-wrap:anywhere}.var-copy>small{display:block;font-size:17px;line-height:1.5;overflow-wrap:anywhere}.var-strip{width:760px}@keyframes varPulse{50%{opacity:.5}}
 
 .sponsor-strip{width:900px;max-width:calc(100% - 192px)}.sponsor-strip .info-label{font-size:22px;padding:10px 26px}.sponsor-strip .info-content{min-height:142px;padding:20px 28px;gap:30px}.sponsor-strip .sponsor-logo{width:220px;height:110px;max-width:220px;max-height:110px;object-fit:contain;flex-shrink:0}.sponsor-strip .info-content>strong{font-size:36px;line-height:1.45;flex:1;min-width:0;overflow-wrap:anywhere}
+
+/* Expansion and withdrawal share the same clipped geometry; transforms stay intact. */
+#motion-departures{position:absolute;inset:0;pointer-events:none;z-index:4}
+.slim-score{animation:bottomReveal 680ms cubic-bezier(.25,.7,.25,1) both;--bottom-overhang:64px}
+.team-event-extension{animation:topReveal 540ms cubic-bezier(.25,.7,.25,1) both}
+.added-time-block,.score-context,.score-row>.dismissal-flags{animation:chipReveal 420ms cubic-bezier(.25,.7,.25,1) both}
+@keyframes topReveal{0%{clip-path:inset(0 50% calc(100% - 3px) 50%)}40%{clip-path:inset(0 0 calc(100% - 3px) 0)}100%{clip-path:inset(0)}}
+@keyframes chipReveal{from{clip-path:inset(0 50% 0 50%)}to{clip-path:inset(0)}}
+@media(prefers-reduced-motion:reduce){.slim-score,.team-event-extension,.added-time-block,.score-context,.score-row>.dismissal-flags{animation-duration:1ms!important}}

diff --git a/public/workflow.css b/public/workflow.css
@@ -30,3 +30,5 @@ aside{padding:26px 12px;background:#09162e} .main{padding:22px 26px;max-width:18
 .event-launcher-buttons{display:grid;grid-template-columns:repeat(2,minmax(0,1fr));gap:10px}.event-launcher-buttons button{min-height:52px;text-align:left;padding:12px 16px}
 .event-dialog{width:min(1240px,96vw);max-height:94vh;overflow:auto;border:1px solid #85c9fc88;border-radius:12px;background:#102451;color:#fff;padding:24px;box-shadow:0 25px 90px #0009}.event-dialog::backdrop{background:#020b1dbb}.event-dialog>header{display:flex;align-items:center;justify-content:space-between;gap:20px}.event-dialog h2{margin:4px 0;font-size:26px}.event-dialog small{color:#85c9fc}.event-modal-grid{display:grid;grid-template-columns:minmax(0,1fr) minmax(0,1fr);gap:20px;align-items:start}.event-modal-grid>.desk-card{padding:16px}.event-modal-preview{position:sticky;top:0;min-width:0}.event-preview-window{margin-top:12px;width:100%;aspect-ratio:16/9;overflow:hidden;background:#081329;border:1px solid #85c9fc44}.event-preview-window iframe{border:0;width:1920px;height:1080px;transform-origin:top left}.event-modal-preview p{font-size:13px;line-height:1.7;color:#b8d8fc}.event-dialog .action-row{position:sticky;bottom:0;background:#102451;padding:10px 0;z-index:2}.penalty-card-toggle{display:flex!important;align-items:center;gap:8px}.event-dialog #penalty-card-fields{width:100%;border-top:1px solid #85c9fc44;padding-top:12px}
 @media(max-width:850px){.event-modal-grid{grid-template-columns:1fr}.event-modal-preview{position:static}.event-dialog{padding:16px}}
+
+.adjustment-summary{font-size:17px;line-height:1.6;padding:12px 16px;border:1px solid #85c9fc77;background:#1355fc22;border-radius:6px;flex-basis:100%;color:#fff}

diff --git a/AGENTS.md b/AGENTS.md
@@ -22,3 +22,5 @@
 
 13. v1.4用户新增：赛中事件名称入口→弹窗填写→确认预览→应用正式记账播出，输入变化或账本版本变化需重新确认。点球可同事务关联给牌，左下仅点球、左上给牌，不重复处罚。取消进球左上显示预设/自定义原因。VAR方框字标、事项选项、六类决定左下；广播所有特殊进球只显示(OG)/(P)，操作UI中文。
 14. v1.4：左上仅比赛阶段（上/下半场及加时）持续显示，休息/中断/结束隐藏；底部条先中心横向再向上展开，半场与下半场开场共用有效上半场账本。12人替补/10种阵型/右侧左下图例/大媒体、四类球队官员、裁判和解说分开带学院长姓名、赞助放大及上传均须保留。新的事件弹窗会使旧版浏览器验收脚本的直接表单操作不再适用，当前UI回归用review-v140和review-event-modal。
+
+15. v1.4.2：所有展开包装出现和收起均须动态，提前撤下/切换保留退场，紧急清屏立即移除副本。手动改比分明确前后分数，确认预览不写账、应用改实际比分但不新增进球者/不自动插播通知。清理日志须一次确认，只收起列表保留账本，可看历史，新事件正常显示。

diff --git a/README.md b/README.md
@@ -6,6 +6,12 @@ v1.1 主题色：#85C9FC、#86EFFC、#4E60FC、#1355FC、纯白。默认本地 N
 
 ![关键画面](design-previews/v1/contact-sheet.png)
 
+## v1.4.2 动态收拢与日志清理
+
+所有展开类包装增加完整收拢动画；提前撤下和切换也会完成退场，紧急清屏仍立即清空。手动改比分明确显示“当前→修改后”，预览不写入，应用才改变实际比分且不新增进球者。比赛日志新增一次确认的“清理日志”，收起列表并保留比赛数据，可查看历史日志。
+
+43项Node测试与新增7组浏览器流程检查通过。更新后重启服务并刷新后台/OBS浏览器源，保留runtime。
+
 ## v1.4.1 事件弹窗与包装升级
 
 v1.4.1补齐v1.4.0发布时漏入Git提交的服务端变更，源码与下载包一致；旧版均保留。
